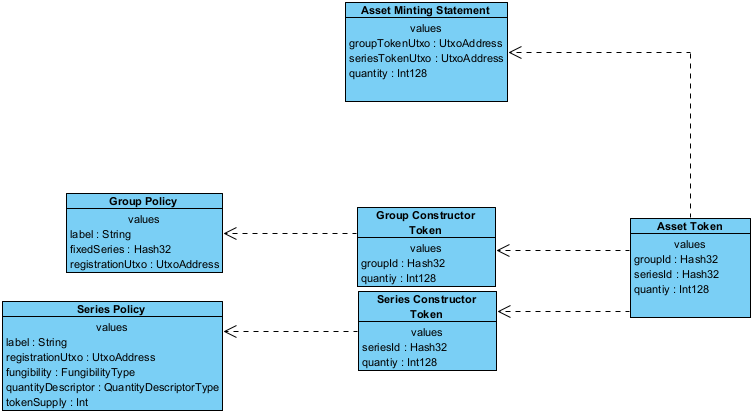
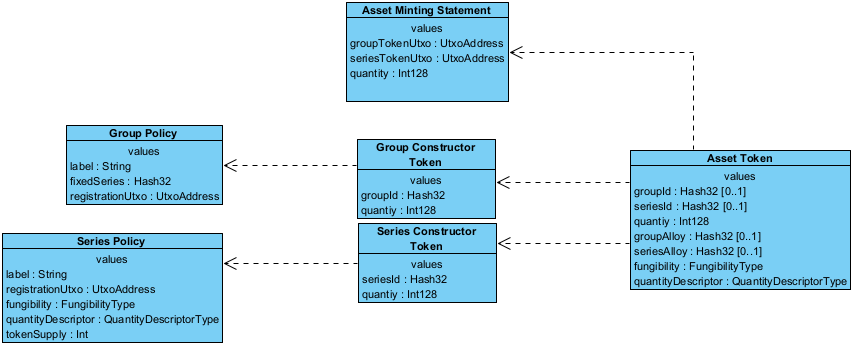
TSDK-547 Partial TIP

diff --git a/TIP-0003/README.md b/TIP-0003/README.md
@@ -10,8 +10,6 @@ License: CC-BY-4.0
 
 [TOC]
 
-
-
 ## Abstract
 
 This TIP proposes a specification for the asset management in the TOPL Blockchain.
@@ -67,15 +65,19 @@ The diagram assumes the existence of the following value types, which are used t
 
 #### Asset Token
 
-Represents the instance of an asset that is stored in a UTXO. We call the pair (groupId, seriesId) the asset identifier.
+Represents the instance of an asset that is stored in a UTXO. We call the pair (groupId, seriesId) the asset identifier. An asset token might have a group alloy or a series alloy, but not both.
 
 ##### Attributes
 
-| Attribute Name | Type   | Description                                                  |
-| -------------- | ------ | ------------------------------------------------------------ |
-| groupId        | Hash32 | The group identifier of the group token that was used to mint this asset. |
-| seriesId       | Hash32 | The series identifier of the series token that was used to mint this asset. |
-| quantity       | Int128 | The quantity of the asset that is stored in a given UTXO.    |
+| Attribute Name     | Type                   | Description                                                  |
+| ------------------ | ---------------------- | ------------------------------------------------------------ |
+| groupId            | Hash32                 | The group identifier of the group token that was used to mint this asset. When there is a groupAlloy this field is not used. |
+| seriesId           | Hash32                 | The series identifier of the series token that was used to mint this asset. When there is a seriesAlloy this field is not used. |
+| quantity           | Int128                 | The quantity of the asset that is stored in a given UTXO.    |
+| groupAlloy         | Hash32                 | This field is optional and represents a Merkle root of the alloy of groups in this asset. This is only valid for tokens that are series fungible. |
+| seriesAlloy        | Hash32                 | This field is optional and represents a Merkle root of the alloy of series in this asset. This is only valid for tokens that are group fungible. |
+| fungibility        | FungibilityType        | Describes the fungibility of the asset.                      |
+| quantityDescriptor | QuantityDescriptorType | Describes the quantity behavior of this asset.               |
 
 #### Group Constructor Token
 
@@ -170,12 +172,35 @@ The minting of a series constructor token requires to burn a certain amount of L
 The minting of an asset requires to use one group and one series constructor token. This requires the submission of a minting transaction to the node. To support this kind of transactions, the following validations need to be performed on the transaction.
 
 - *Check Moving Assets:* Let (`GI1` ,`SI1`) be a token identifier, then the number of tokens with identifier (`GI1` ,`SI1`) in the input is equal to the number of the number of tokens with identifier (`GI1` ,`SI1`) in the output.
+
 - *Check Minting of Asset Tokens:* Let $AMS_0$ ... $AMS_{n-1}$ be the $n$ Asset Minting Statement to mint $m_0$, $m_1$, ..., $m_{n-1}$  tokens with identifier  (`GI1` ,`SI1`) , all of the following statements are true:
+
   - All Asset Minting Statement $AMS_0$ ... $AMS_{n-1}$  are attached to the transaction.
+
   - Let $in$ be the number of assets with identifier (`GI1` ,`SI1`) in the input and $out$  number of assets with identifier (`GI1` ,`SI1`) in the output, then: 
     $$in + \sum_{i = 1}^{n - 1} m_i = out$$
+
   - For each $AMS_i$, all UTXOs referenced are unique.
+
   - For each $AMS_i$, the token supply specified in the referenced series is equal to the quantity attribute in $AMS_i$.
+
+  - Let $gin$ be the total number of group constructor tokens with identifier `GI1` in the input, $gout$ the total number of group constructor tokens with identifier `G1` in the output, and $burned$ the number of $AMS_i$ where the referenced series specifies a token supply then we have:
+
+    $$gin - burned = gout$$
+
+  - Let $sin$ be the total number of series constructor tokens with identifier `SI1` in the input, $sout$ the total number of series constructor tokens with identifier `S1` in the output, and $burned$ the number of $AMS_i$ where the referenced series specifies a token supply, then we have:
+
+    $$sin - burned = sout$$
+
+### Transacting with Assets
+
+Transaction with assets are performed in the same way as transactions with LVLs. The only difference is that assets allow for different degrees of fungibility. At a chain level two assets are fungible if they can both be stored in the same UTXO. This poses a problem when we deal with two assets that are fungible at one level but not at the other. 
+
+#### Merging and Splitting Assets
+
+Merging assets mean that we take to assets that are fungible at one level but not the other and merge them into the same UTXO. The reverse operation is the splitting of assets.
+
+Quantity Behavior
 
 ### Glossary
 
